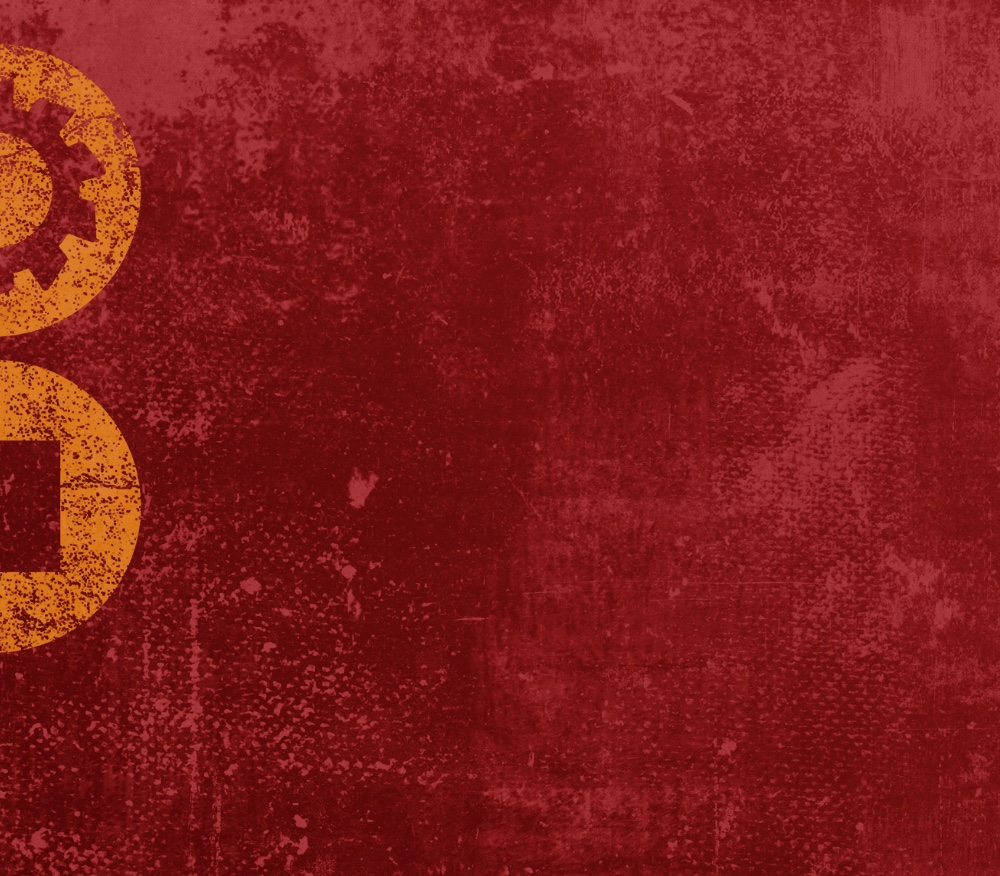
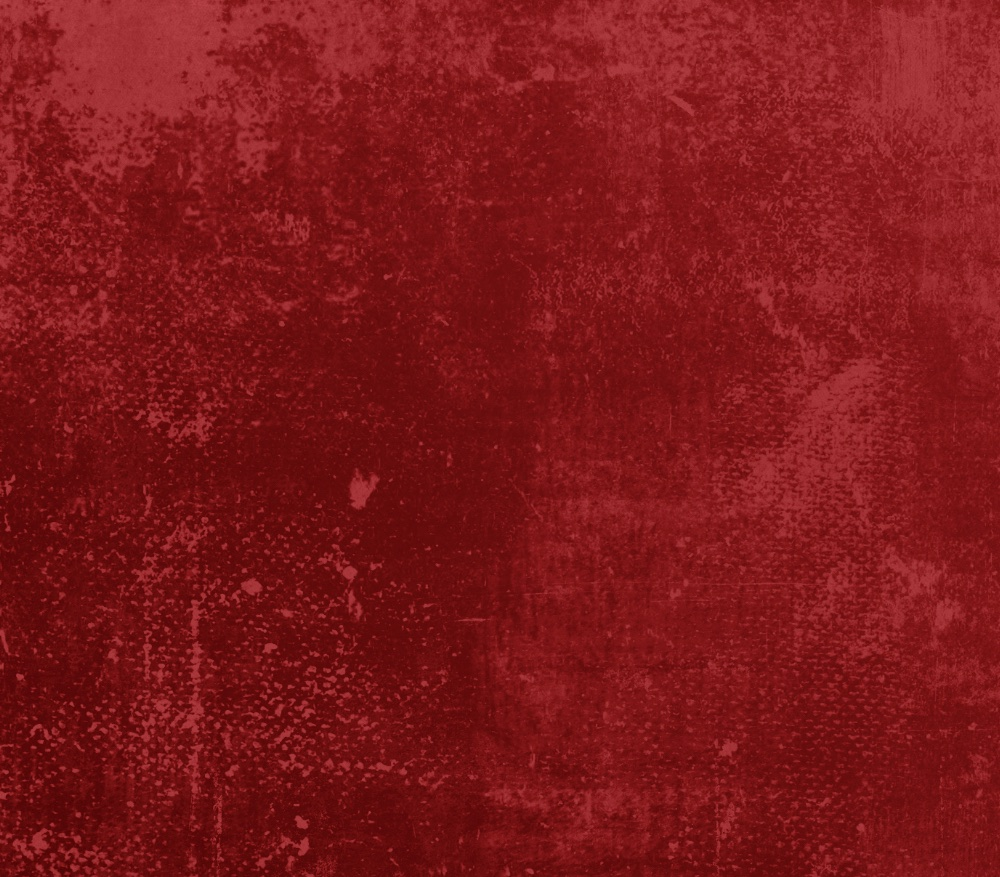
final tweaks

Changed region(s): [[0.0, 0.0308, 0.155, 0.7705], [0.186, 0.5856, 0.217, 0.6164], [0.155, 0.8014, 0.186, 0.8322]]

diff --git a/assets/styles.scss b/assets/styles.scss
@@ -116,11 +116,24 @@
       left: 3vw;
     }
   }
+  .coffee {
+    position: absolute;
+    top: 0;
+    left: 0;
+    opacity: .6;
+  }
+  .shopping {
+    position: absolute;
+    top: 250px;
+    left: 0;
+    mix-blend-mode: multiply;
+    opacity: 0.7;
+  }
 }
 .slide-holder.more {
   @include for-med-up {
     margin-top: calc((100vw * 0.01354166667) - (5.6vw));
-    margin-bottom: 6vw;
+    margin-bottom: 9vw;
   }
  
 }
@@ -136,8 +149,9 @@
   }
   @include for-med-up {
     background-image:url('{{ 'assets/home/charm.jpg' | relative_url }}');
-    background-attachment: fixed;
+    // background-attachment: fixed;
     background-position-x: 7vw;
+    background-size: cover;
     background-repeat: no-repeat;
   }
   .charm-content {
@@ -239,6 +253,18 @@
       opacity: .4;
       font-size: 8rem;
       bottom: 70vw;
+      left: 15%;
+    }
+  }
+  .cogs {
+    position: absolute;
+    top: -120px;
+    left: 0;
+    opacity: .6;
+    @include for-small {
+      height: 220px;
+      width: auto;
+      top: 0;
     }
   }
 }

diff --git a/_includes/home-more_to_the_mix.html b/_includes/home-more_to_the_mix.html
@@ -12,6 +12,8 @@
 			<img class="lazy animate__animated" data-animations="animate__slideInRight" data-src="{{ 'assets/home/mm_record.png' | relative_url }}" alt="a woman sunbathing in a pool in the shape of a vinyl record">
 		</article>
 	</div>
+	<img class="mobile coffee" src="{{ 'assets/home/mm_coffee.png' | relative_url }}" alt="a decorative coffee cup referencing the social cafes available at the Brick & Mortar District at Plum Creek">
+	<img class="mobile shopping" src="{{ 'assets/home/mm_bag.png' | relative_url }}" alt="a decorative shopping bag referencing the retail shopping available at the Brick & Mortar District at Plum Creek">
 	
 </div>
 <div class="slide-holder more">

diff --git a/assets/theme.css b/assets/theme.css
@@ -104,3 +104,37 @@ strong {
 	justify-content: center;
 	height: 100%;
 }
+
+
+
+
+
+
+/* TEST */
+body.bgs-fixed .sized_section.vcen.mm-bg {
+    background-attachment: fixed;
+}
+
+body.bgs-fixed .sized_section.charm-bg {
+    background-attachment: fixed;
+}
+
+body.bgs-fixed .sized_section.vcen.hats-bg {
+    background-attachment: fixed;
+}
+
+body.bgs-fixed .sized_section.business-bg.vcen {
+    background-attachment: fixed;
+}
+
+body.bgs-fixed .destination-bg {
+    background-attachment: fixed;
+}
+
+body.bgs-fixed .news {
+    background-attachment: fixed;
+}
+
+body.bgs-fixed  div#interest_form {
+    background-attachment: fixed;
+}

diff --git a/_includes/home-hats.html b/_includes/home-hats.html
@@ -15,6 +15,8 @@
 			<img class="second lazy animate__animated" data-animations="animate__slideInRight animate__delay-1s" data-src="{{ 'assets/home/hats2.jpg' | relative_url }}">
 		</div>
 	</div>
+	<img class="cogs" src="{{ 'assets/home/hats_cogs.png' | relative_url }}" alt="a decorative gear or mechanical cog referencing the career and commercial opportunities available at the Brick & Mortar District at Plum Creek">
+
 	<span class="bigword live animate__animated" data-animations="animate__slideInLeft animate__slower">LIVE</span>
 </div>
 

diff --git a/_includes/home-charm.html b/_includes/home-charm.html
@@ -11,7 +11,7 @@
 		<span class="tower animate__animated" data-animations="animate__fadeInUp animate__delay-1s">
 			<img class="lazy" data-src="{{ 'assets/home/charm_tower.png' | relative_url }}" width="306" height="685">
 		</span>
-		<span class="people animate__animated" data-animations="animate__slideInRight ">
+		<span class="people animate__animated" data-animations="animate__slideInRight">
 			<img class="lazy" data-src="{{ 'assets/home/charm_people.jpg' | relative_url }}">
 		</span>
 
